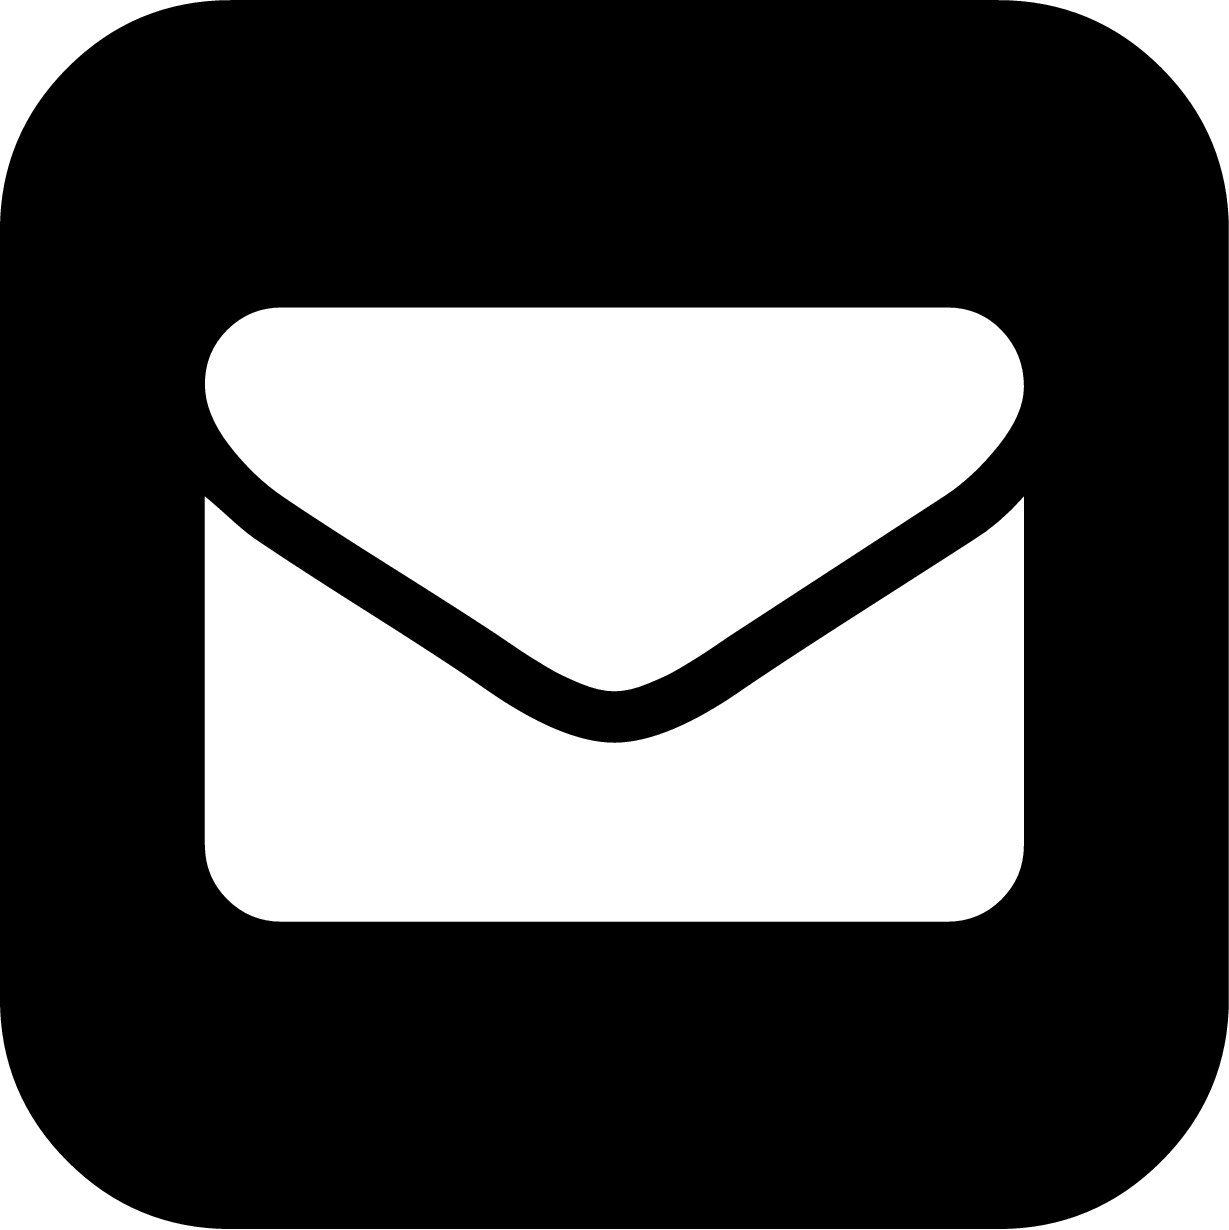
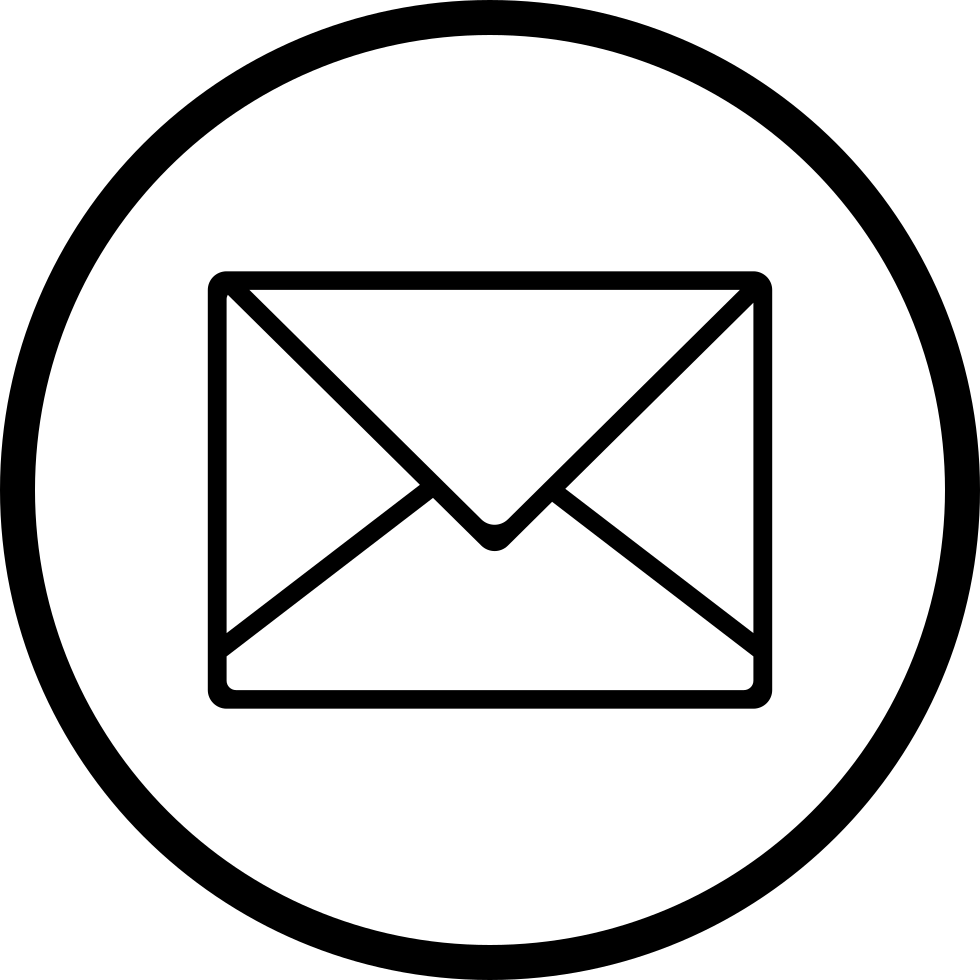
removed SNS link and attach mailto link

diff --git a/index.html b/index.html
@@ -59,7 +59,7 @@
 </ul>
 </div>
 <div class="page">
-<p><a target='_blank' href='./taglibro/'><img class='icon' src='resources/img/identicon.png'></a> <a target='_blank' href='http://cympfh.tumblr.com/'><img class='icon' src='resources/img/tumblr.png'></a> <a target='_blank' href='https://github.com/cympfh'><img class='icon' src='resources/img/GitHub-Mark.png'></a> <a target='_blank' href='http://twitter.com/cympfh'><img class='icon' src='resources/img/Twitter_trans.png'></a></p>
+<p><a target='_blank' href='./taglibro/'><img class='icon' src='resources/img/identicon.png'></a> <a target='_blank' href='https://github.com/cympfh'><img class='icon' src='resources/img/GitHub-Mark.png'></a> <a target='_blank' href='mailto:cympfh@gmail.com'><img class='icon' src='resources/img/mail.png'></a></p>
 </div>
 <hr/>
 <script src="resources/js/search.js"></script>

diff --git a/index.md b/index.md
@@ -6,9 +6,8 @@
 
 <div class='page'>
 <a target='_blank' href='./taglibro/'><img class='icon' src='resources/img/identicon.png'></a>
-<a target='_blank' href='http://cympfh.tumblr.com/'><img class='icon' src='resources/img/tumblr.png'></a>
 <a target='_blank' href='https://github.com/cympfh'><img class='icon' src='resources/img/GitHub-Mark.png'></a>
-<a target='_blank' href='http://twitter.com/cympfh'><img class='icon' src='resources/img/Twitter_trans.png'></a>
+<a target='_blank' href='mailto:cympfh@gmail.com'><img class='icon' src='resources/img/mail.png'></a>
 </div>
 
 <hr/>
